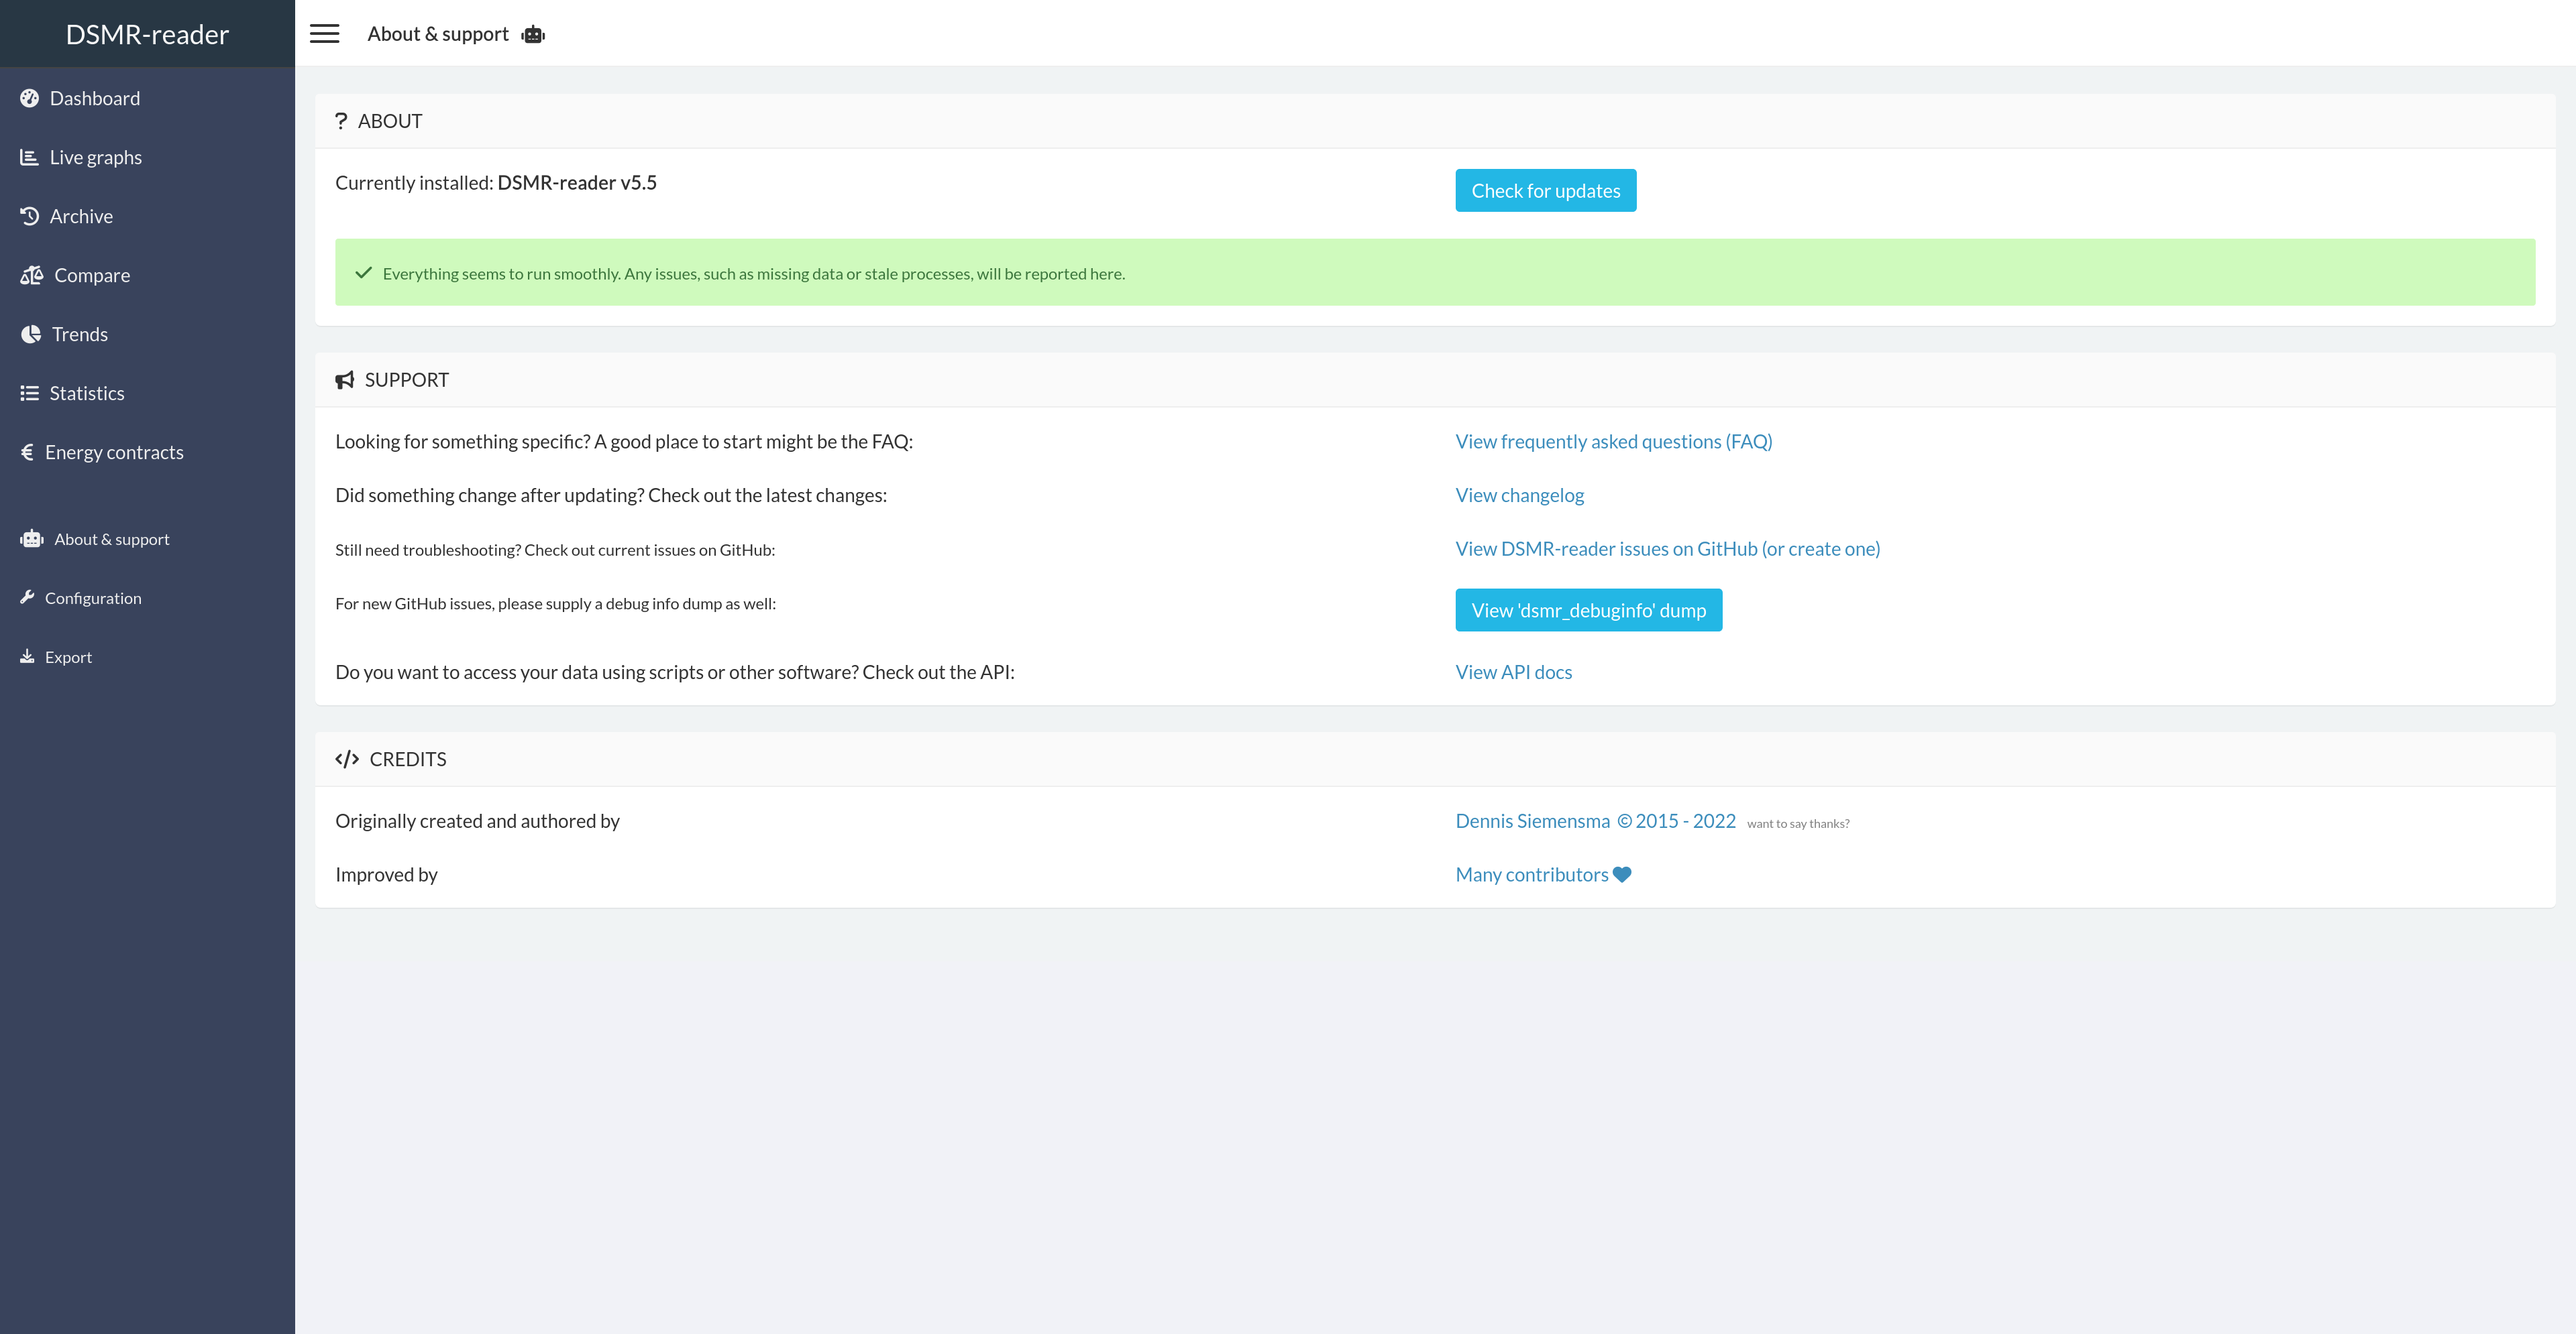
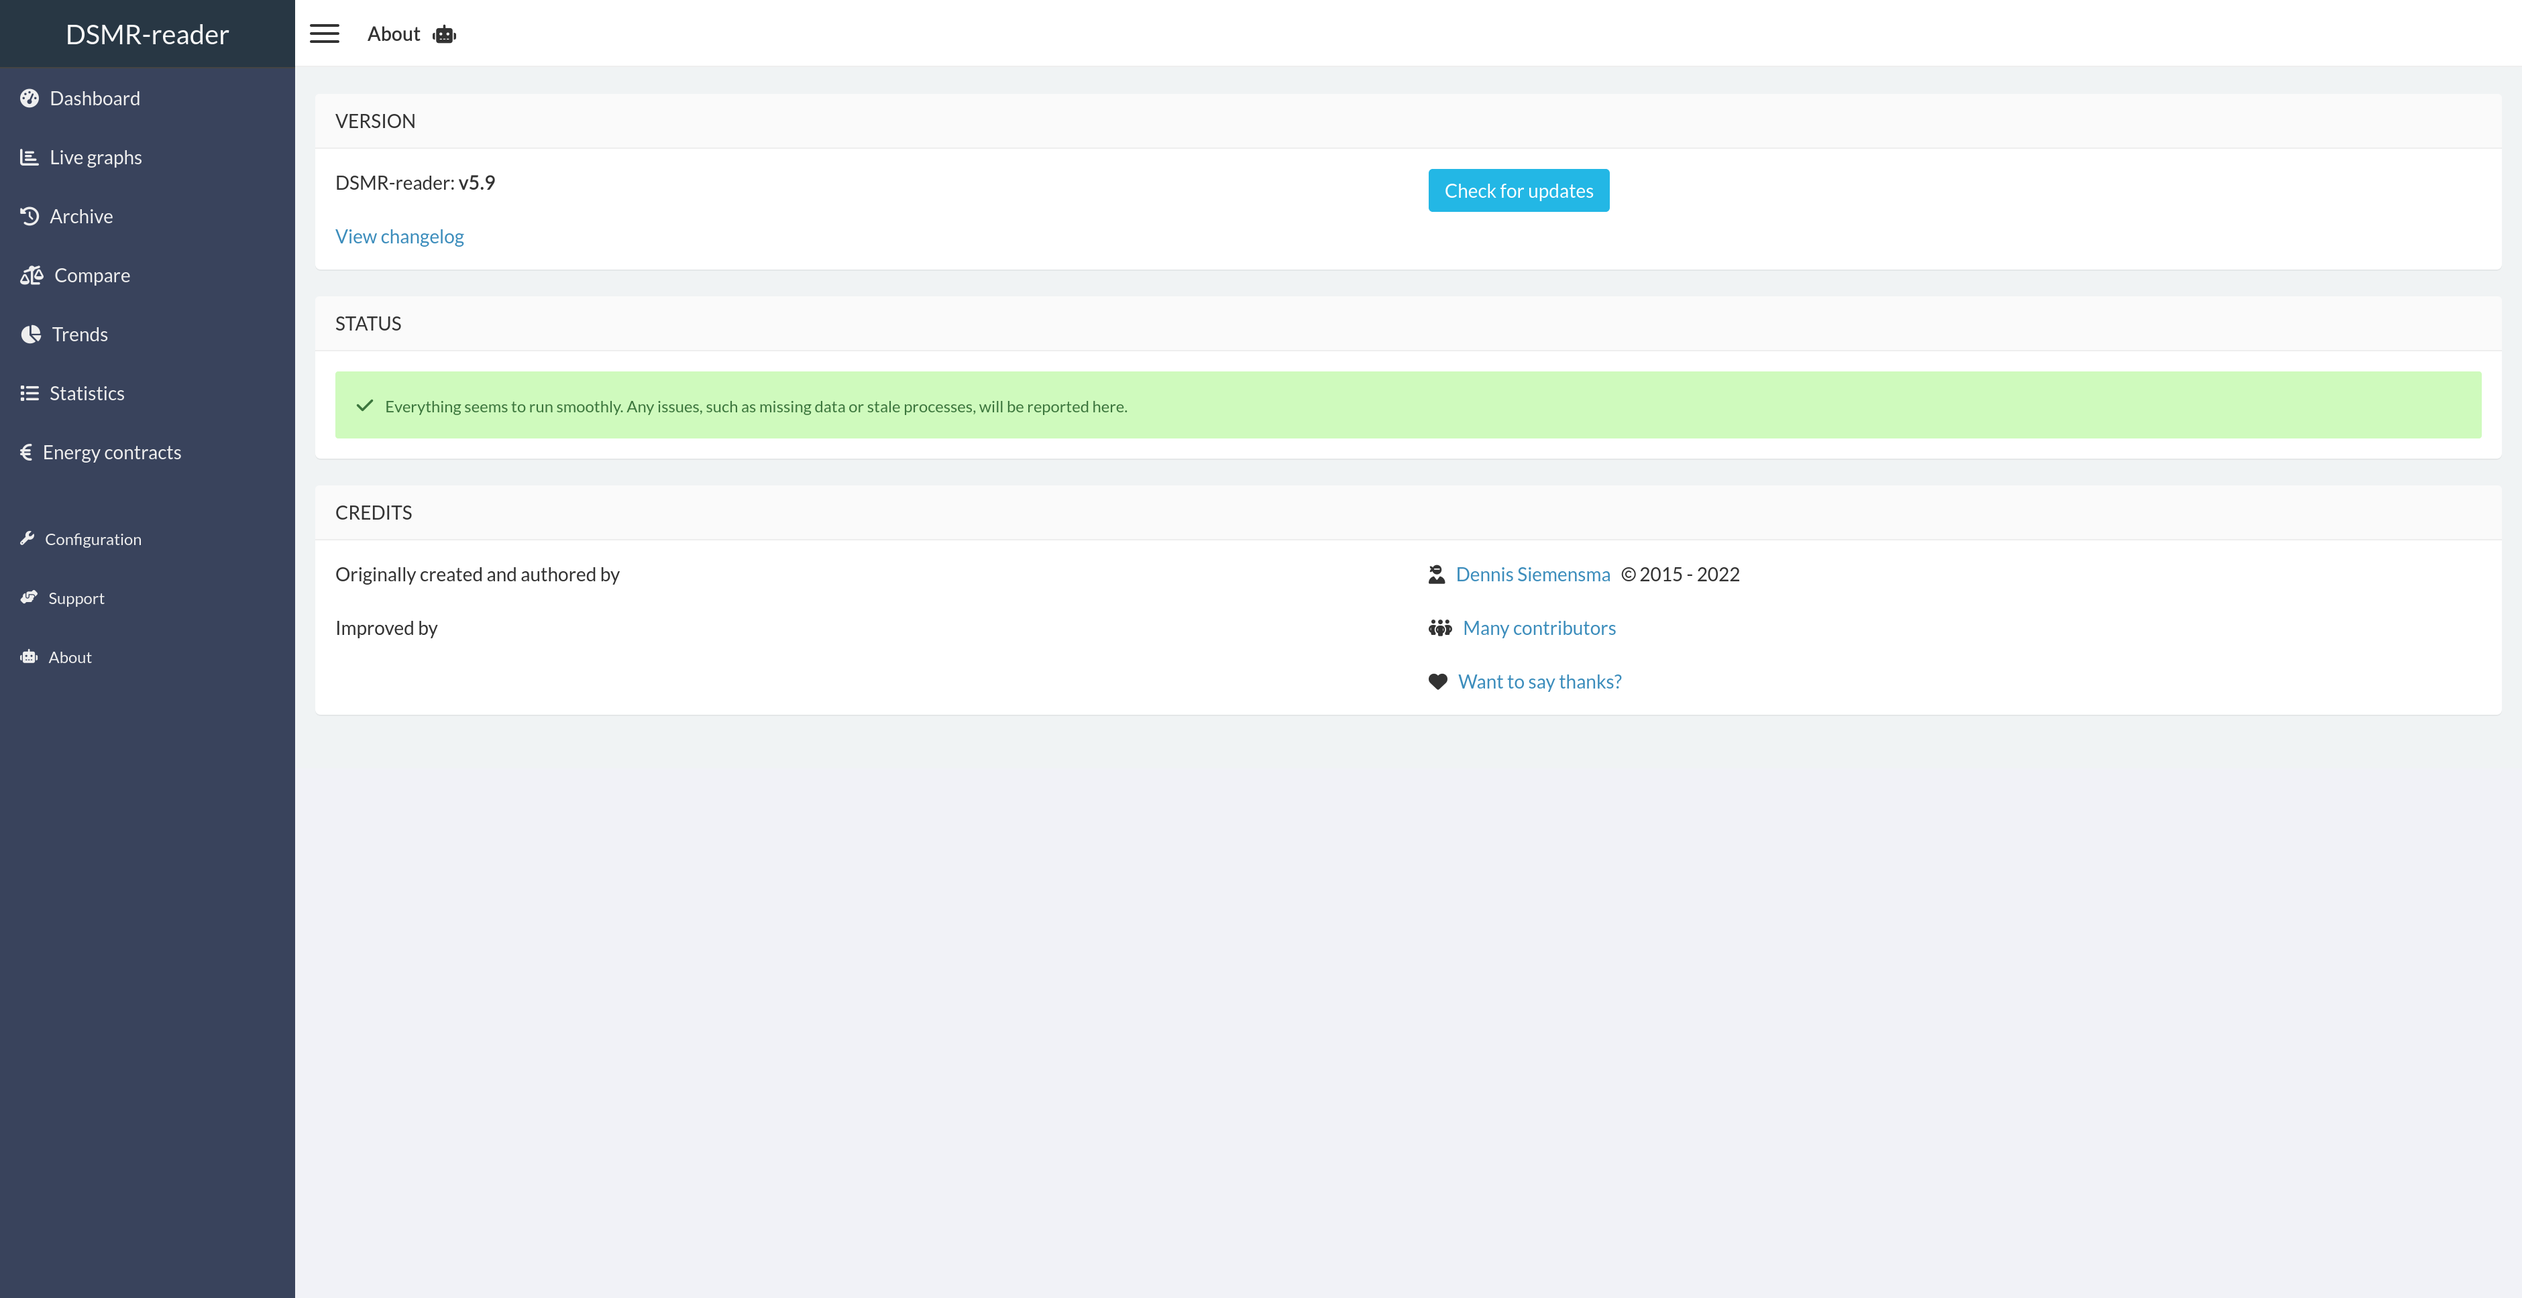
Update docs/screenshots with new Sopport page

diff --git a/docs/explained/about.rst b/docs/explained/about.rst
@@ -144,13 +144,23 @@ This pages allows you to export all day or hour statistics to CSV.
 About
 ^^^^^
 
-Shows the 'health' of the application and provides a lot of background information.
+Shows the 'health' of the application. Any issues will be reported here.
 
 You can also easily check for DSMR-reader updates here.
 
 .. image:: ../_static/screenshots/v5/frontend/about.png
     :target: ../_static/screenshots/v5/frontend/about.png
-    :alt: Status
+    :alt: About
+
+
+Support
+^^^^^^^
+
+Assists you in finding the information required for debugging your installation or any issues.
+
+.. image:: ../_static/screenshots/v5/frontend/support.png
+    :target: ../_static/screenshots/v5/frontend/support.png
+    :alt: Support
 
 
 Configuration
